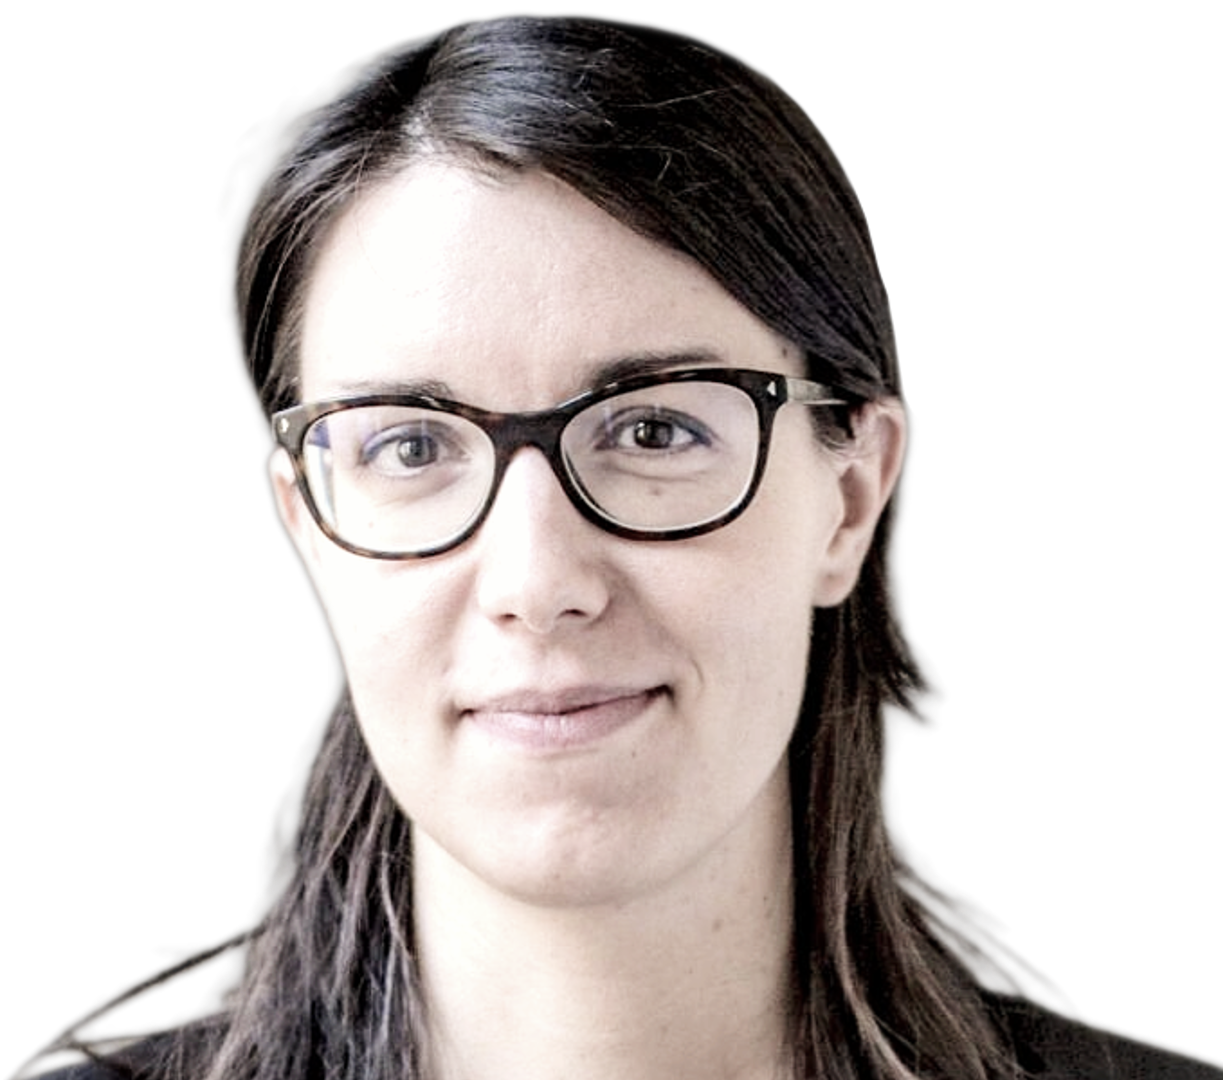
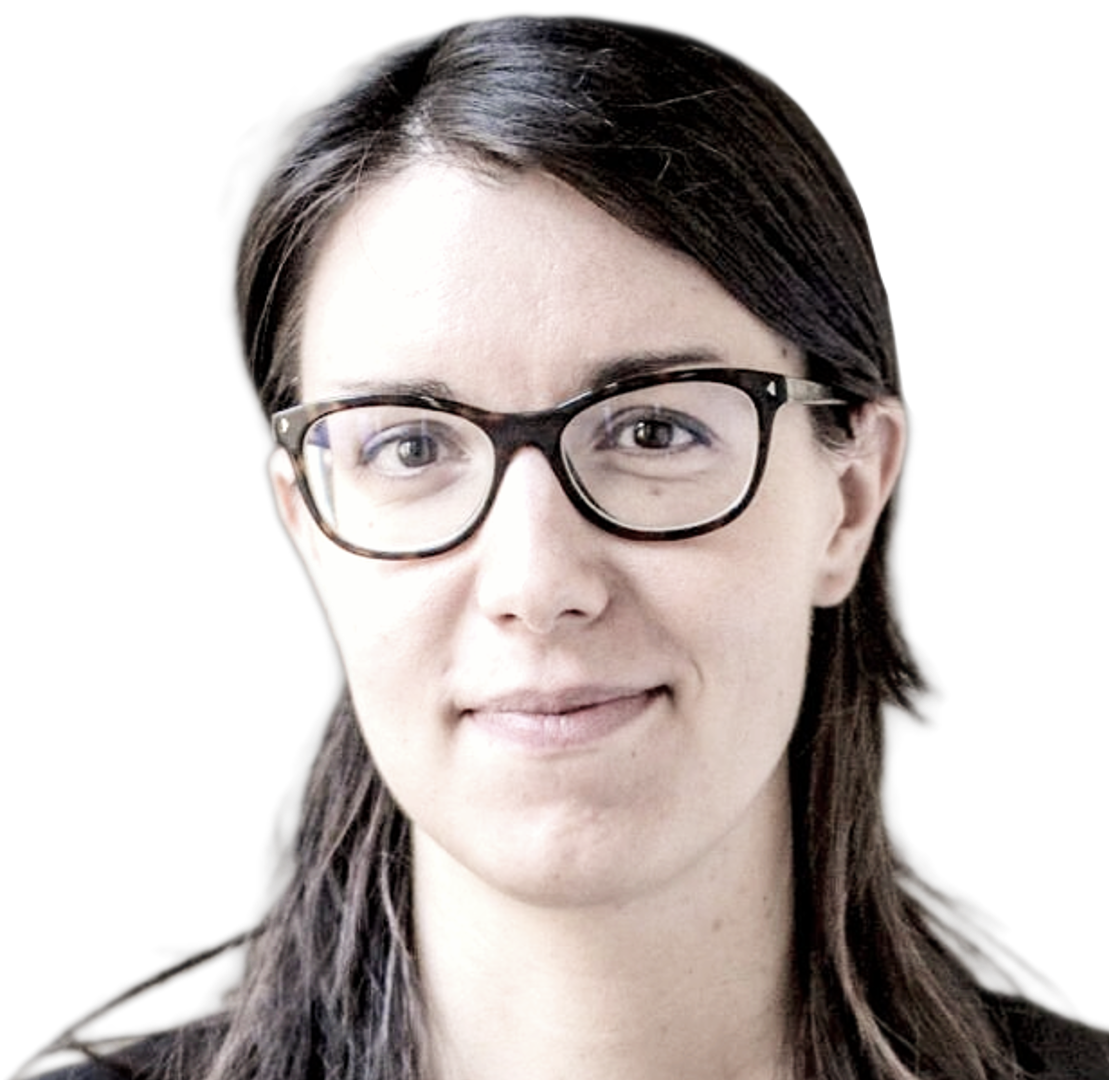
edit

diff --git a/content/authors/admin/_index.md b/content/authors/admin/_index.md
@@ -9,7 +9,7 @@ last_name: Corda
 
 # Status emoji (leave '' if prefer empty)
 status:
-  icon: 👣
+  icon: ''
 
 # Is this the primary user of the site?
 superuser: true
